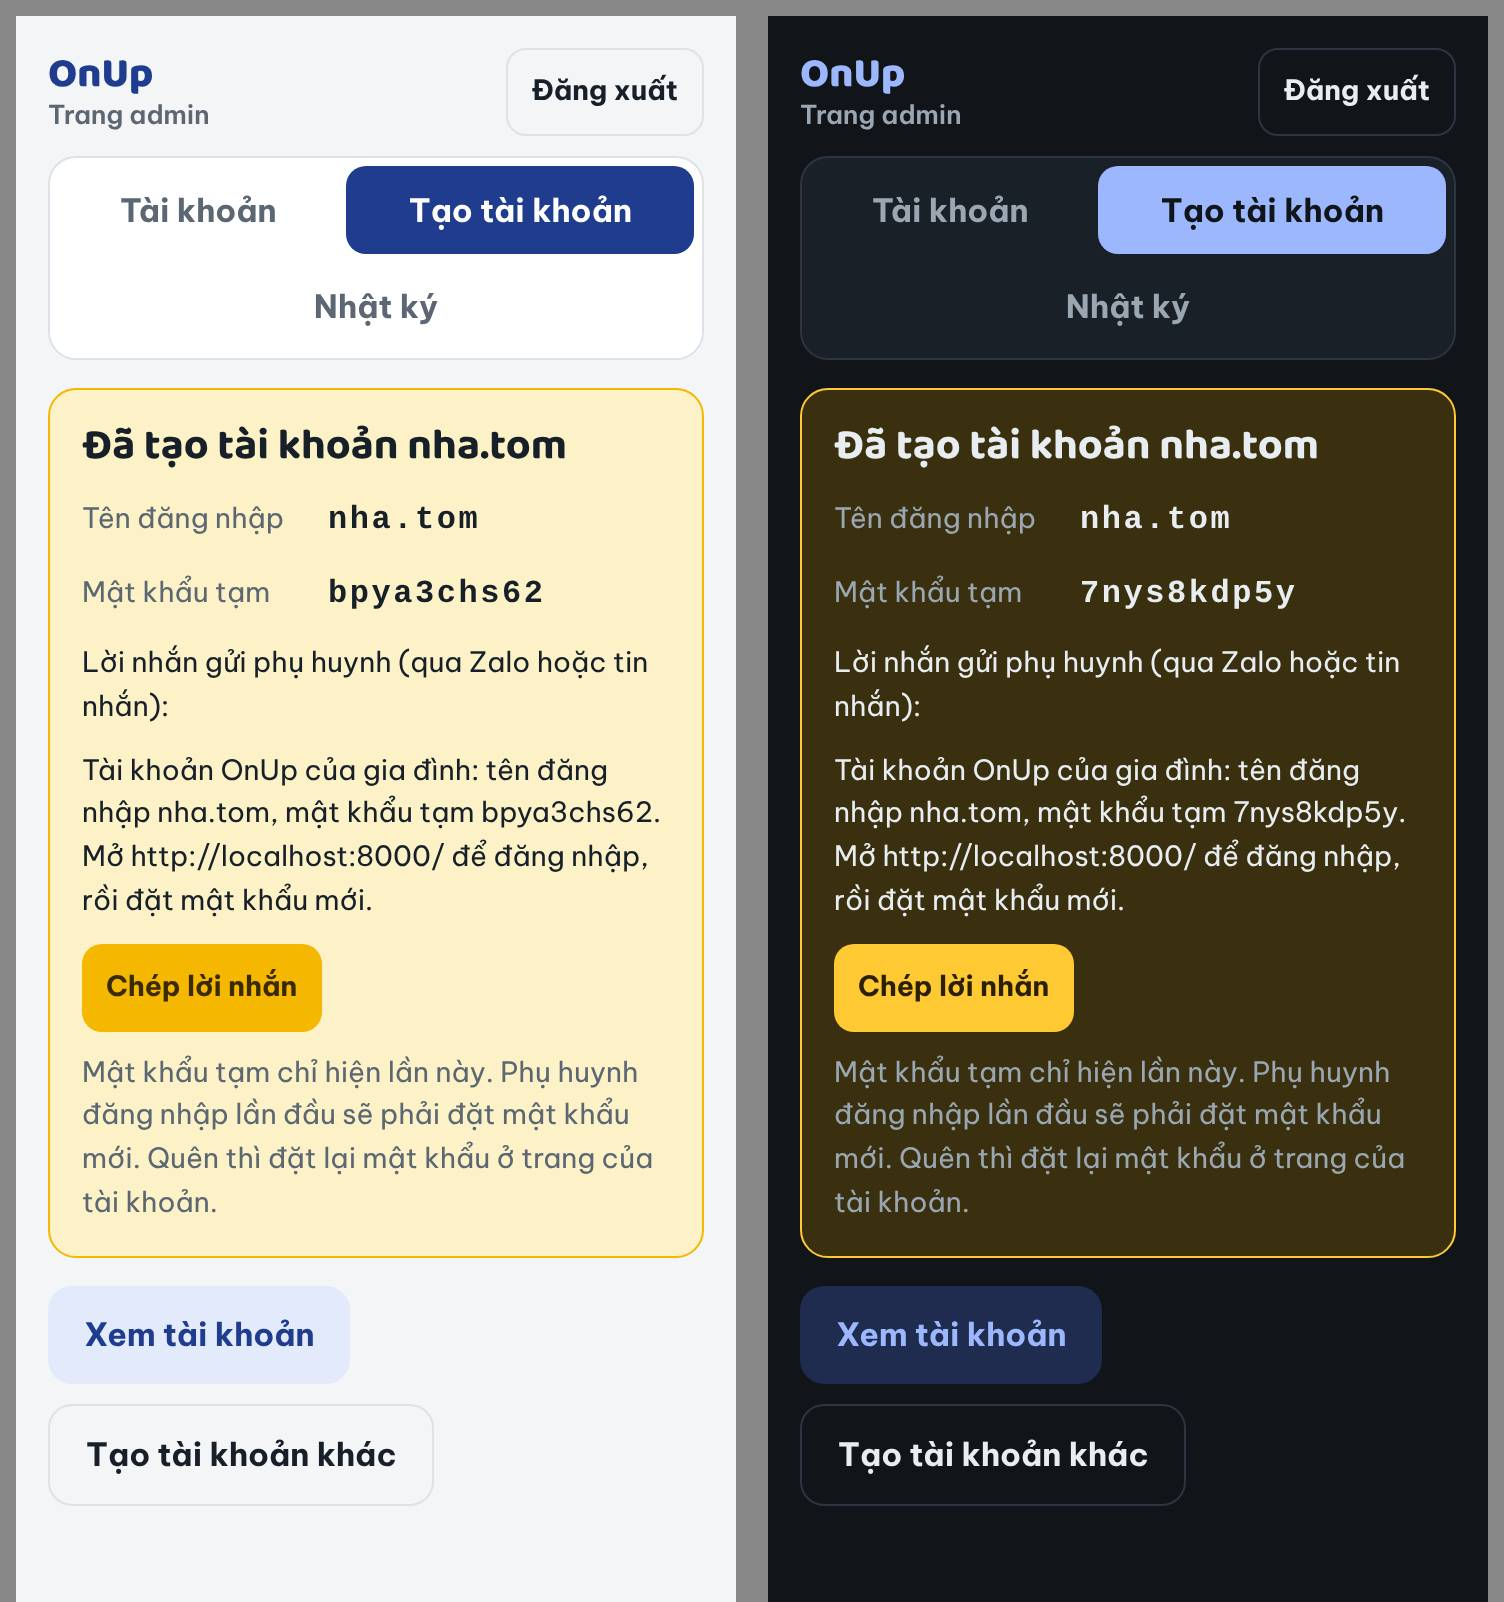
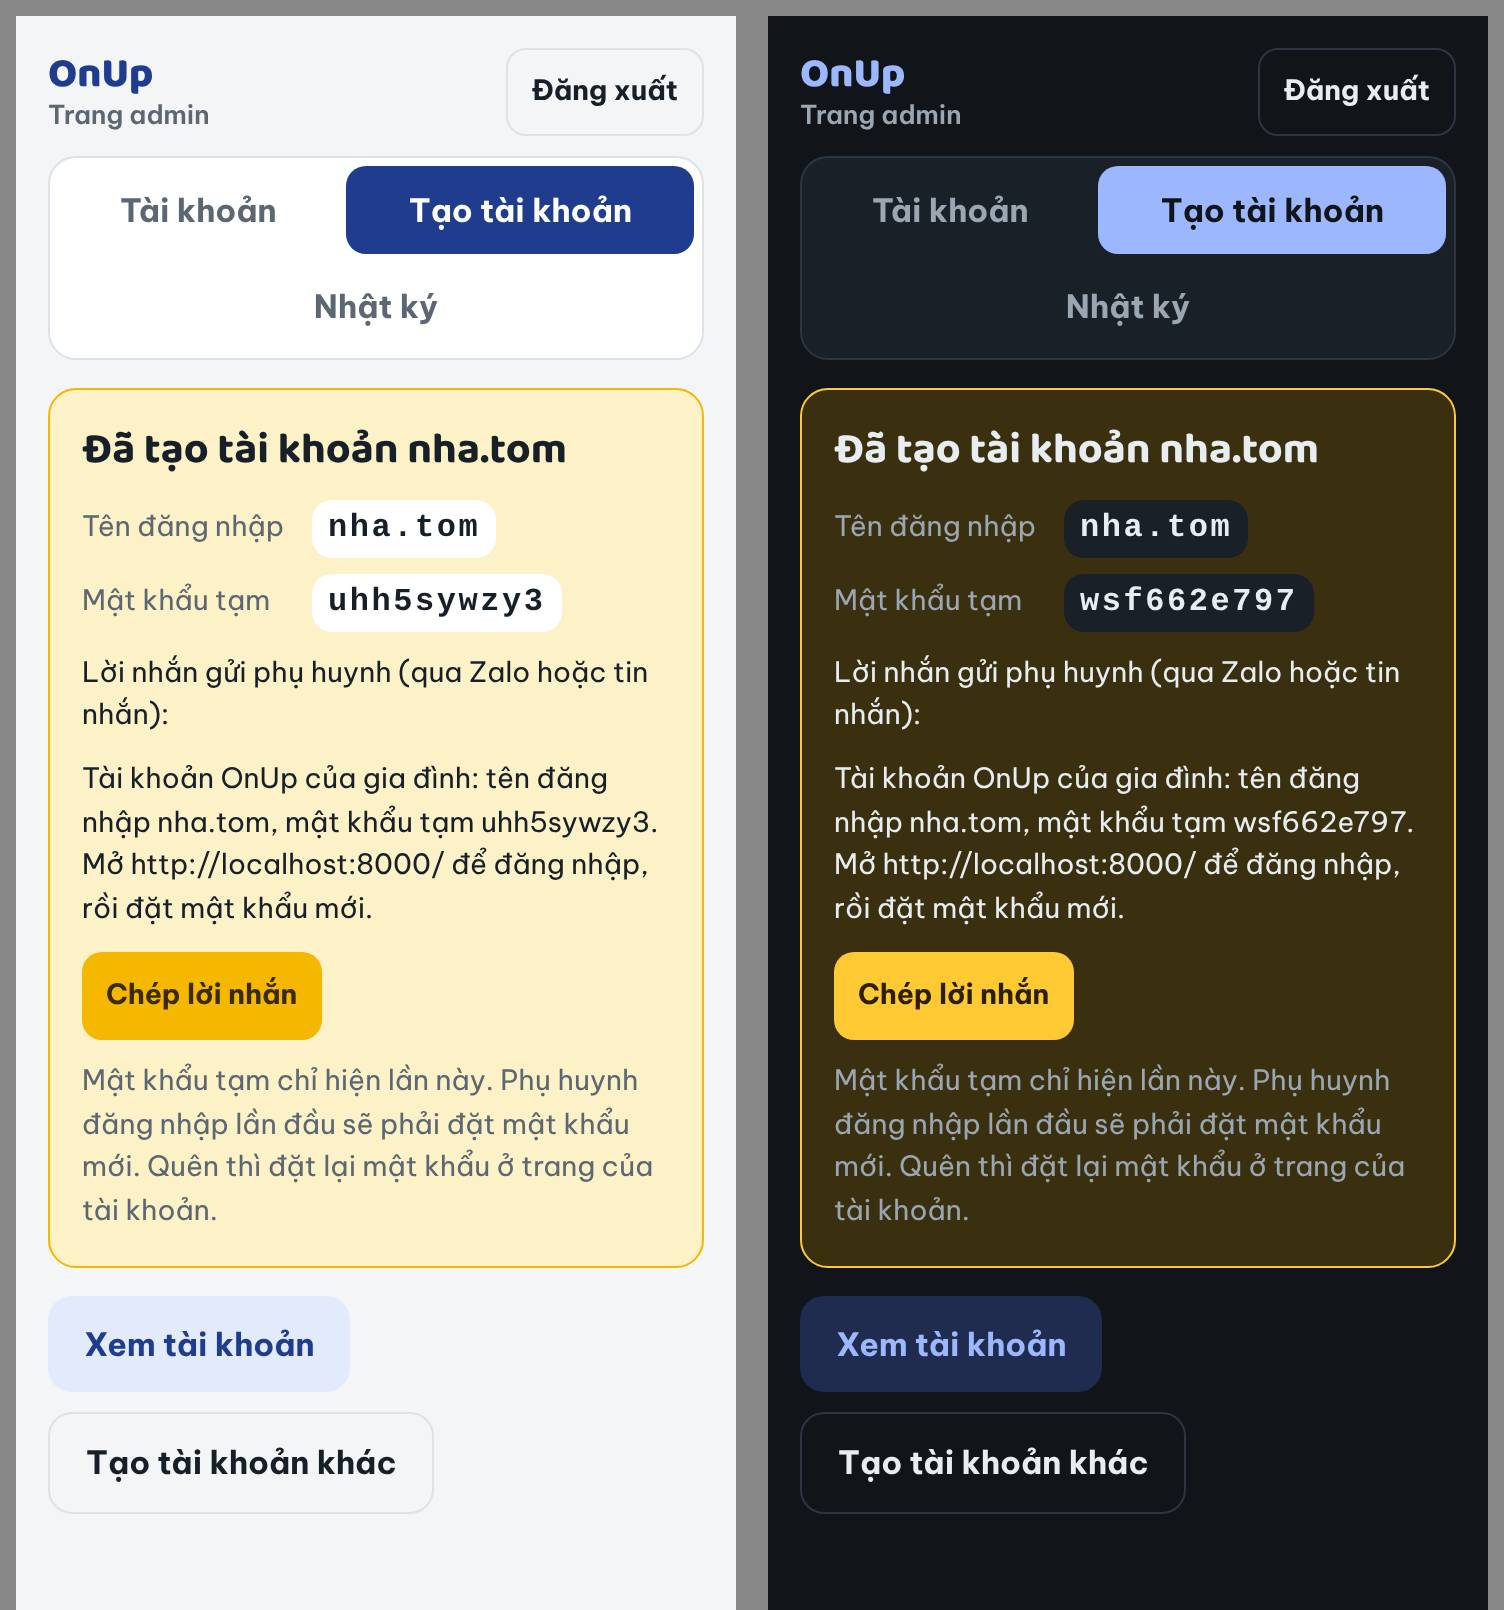
Phiên UI1: tiêu đề line-height 1.35, ô mã trong thẻ nhắc nổi khung
X15: h1, h2, h3 dùng line-height 1.35 cho cả màn hình (giữ text-wrap:
balance), bỏ dòng line-height trong @media print vì đã thành thừa, giữ
break-after. Dấu thanh của Baloo 2 ở tiêu đề hai dòng không còn chạm
dòng trên.

X16: thêm .remind .code{background:var(--surface)} để tên đăng nhập và
mật khẩu tạm trong thẻ nhắc của trang admin nổi khung.

tests/e2e.js: thêm kiểm tra line-height tính ra của h1 ≥ 1,3 lần cỡ chữ
(ở màn mở đề, cả sáng và tối). Cập nhật ảnh admin-da-tao trong
docs/hinh-dam-may/ và thêm ảnh trước/sau vào docs/hinh-ux-2x/.

Claude-Session: https://claude.ai/code/session_01SeCRECs6ERKrYgd6K1XTC1

diff --git a/css/app.css b/css/app.css
@@ -28,7 +28,7 @@ html,body{margin:0}
 body{background:var(--bg);color:var(--ink);font-family:var(--body);font-size:16px;line-height:1.55;
   padding:0 max(16px,env(safe-area-inset-right,0px)) 48px max(16px,env(safe-area-inset-left,0px))}
 .app{max-width:720px;margin:0 auto}
-h1,h2,h3{font-family:var(--display);line-height:1.15;margin:0;text-wrap:balance}
+h1,h2,h3{font-family:var(--display);line-height:1.35;margin:0;text-wrap:balance} /* 1.35: dấu thanh của Baloo 2 cao, tiêu đề hai dòng không chạm nhau (cả bản in) */
 h1{font-size:1.75rem} h2{font-size:1.35rem} h3{font-size:1.1rem}
 p{margin:0}
 button,input,select,textarea{font:inherit;color:inherit}
@@ -266,6 +266,7 @@ textarea.essay-in{font:inherit;min-height:140px;background:var(--surface)}
 .leave .confirm{background:var(--surface);width:100%;max-width:420px;margin:0;padding:18px}
 .notice{background:var(--sun-soft);border-radius:12px;padding:10px 14px;font-size:.9rem}
 .remind{background:var(--sun-soft);border-color:var(--sun)} /* thẻ nhắc sao lưu (trang chủ quản trị, phụ huynh) */
+.remind .code{background:var(--surface)} /* ô mã trong thẻ nhắc (tên đăng nhập, mật khẩu tạm ở trang admin) nổi khung thay vì cùng nền sun-soft */
 .code{display:inline-block;font-family:ui-monospace,Menlo,Consolas,monospace;font-weight:700;font-size:1.35rem;letter-spacing:.12em;background:var(--sun-soft);color:var(--ink);border-radius:10px;padding:6px 12px;overflow-wrap:anywhere}
 .code.sm{font-size:1rem;padding:2px 8px;letter-spacing:.08em}
 .code-in{text-transform:uppercase;letter-spacing:.1em;font-weight:700}
@@ -310,7 +311,6 @@ body.playing{padding-bottom:0}
   .app{max-width:none}
   .top,.foot,.noprint,.toast{display:none!important}
   .panel,.stat,.ev,.item,.rp-sub,.rp-days{break-inside:avoid}
-  h1,h2,h3{line-height:1.35} /* dấu thanh của Baloo 2 cao, không bị cắt sang trang trước */
   h1,h2,.label{break-after:avoid}
   .bar,.bar i,.rp-day,.tag,.av,.ev{-webkit-print-color-adjust:exact;print-color-adjust:exact}
   .ev.past{opacity:1}

diff --git a/tests/e2e.js b/tests/e2e.js
@@ -561,6 +561,8 @@ const localConfig = (c) => c.route("**/js/config.js", (r) => r.fulfill({ content
     await open("#/quiz/tv4-ck1-de1"); await p.waitForSelector("#qRetry"); await check("đề chưa tải được"); await snap("de-chua-tai-duoc");
     await c.unroute("**/data/banks/4-tv.js"); await p.click("#qRetry"); r.retry = !!(await p.waitForSelector("#qPractice").catch(() => null));
     await open("#/quiz/toan4-ck1-de1"); await p.waitForSelector("#qPractice"); await check("đề, màn đầu"); r.quizFoot = !(await footShown());
+    // tiêu đề (X15): line-height tính ra của h1 ≥ 1,3 lần cỡ chữ, để dấu thanh của tiêu đề hai dòng không chạm nhau
+    r.h1Line = await p.evaluate(() => { const cs = getComputedStyle(document.querySelector(".hero h1")); return parseFloat(cs.lineHeight) >= 1.3 * parseFloat(cs.fontSize); });
     await p.click("#qPractice"); await check("đề, câu hỏi");
     if (await p.$("#qzFill")) await p.fill("#qzFill", "1"); else await p.click(".opt >> nth=0");
     await p.click("#qzGo"); await check("đề, sau khi trả lời");
